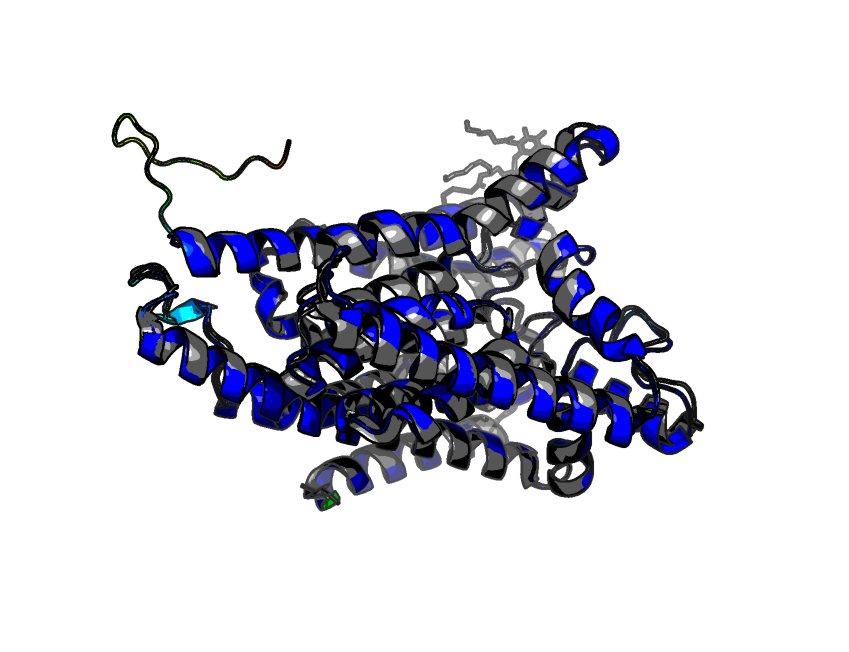
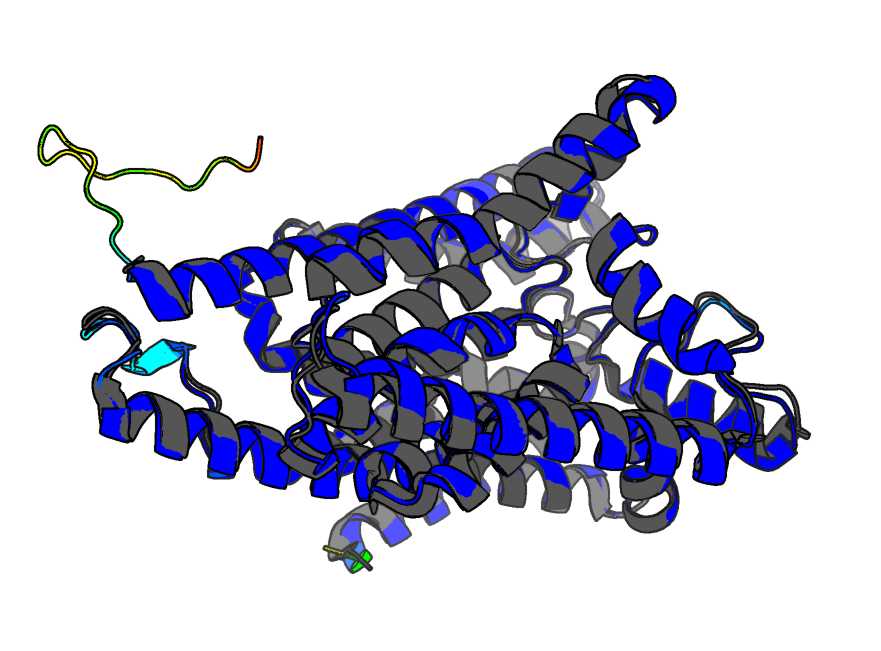
mol*/PyMOL tutorial

Changed region(s): [[0.0306, 0.0922, 0.9187, 0.8909]]

diff --git a/docs/day1/mol_star_tutorial.md b/docs/day1/mol_star_tutorial.md
@@ -102,14 +102,18 @@ fetch 1mbo
 fetch 4hhb
 ```
 3. Since 1MBO is a monomer, we can use the whole object. Hemoglobin (4HHB) is a tetramer (chains A, B, C, and D), so we need to specify just one chain—let's use Chain A. For the alignment of the structures, we use the built-in equivalent to TM-align `super 4hhb and chain A, 1mbo`
-4. Next we hide everything in hemoglobin that is not chain A using `hide everything, 4hhb and not chain A`
+4. Next we hide everything in hemoglobin that is not chain A using `hide everything, 4hhb and not chain A`, also Use the solvent selector to hide water molecules `hide everything, solvent`. Finally, remove SO4 and color O2 by element as follows:
+```python
+color atomic, resn OXY
+hide resn SO4  # remove inorganic # ions/salts (SO4, PO4, CL, NA, etc.)
+```
 5. Finally, we put some colors
 ```python
 color green, 1mbo
-color cyan, 4hhb and chain A
+color cyan, 4hhb # or color cyan, 4hhb and chain A
 ```
-6. Center the alignment with `zoom 1mbo or (4hhb and chain A)`
-7. Optionally, we may render the final picture using ray trace mode as follows
+1. Center the alignment with `zoom 1mbo or (4hhb and chain A)`
+2. Optionally, we may render the final picture using ray trace mode as follows
 ```python
 bg_color white
 set ray_trace_mode, 3
@@ -120,11 +124,13 @@ ray
 
 ## Exercise 2
 
-Upload the best model for the **PIGU protein** from Exercise 1 of the ColabFold tutorial to Mol* and color it by **pLDDT** using `spectrum b, rainbow_rev, minimum=50, maximum=90` (ColabFold and AlphaFold store the predicted local distance difference test (pLDDT) scores directly inside the B-factor column of the resulting .pdb or .cif files). We can give the structure an alias `set_name PIGU_prediction_98843_unrelaxed_rank_001_alphafold2_ptm_model_4_seed_000, PIGU`.
+Upload the best model for the **PIGU protein** from Exercise 1 of the ColabFold tutorial as PIGU object `load data\Exercise_1\PIGU_prediction_98843_unrelaxed_rank_001_alphafold2_ptm_model_4_seed_000.pdb, PIGU` and color it by **pLDDT** using `spectrum b, rainbow_rev, minimum=50, maximum=90` (ColabFold and AlphaFold store the predicted local distance difference test (pLDDT) scores directly inside the B-factor column of the resulting .pdb or .cif files).
+
+We could alos give the structure the PIGU alias `set_name PIGU_prediction_98843_unrelaxed_rank_001_alphafold2_ptm_model_4_seed_000, PIGU` after loading the PDB file.
 
 PIGU protein (UniProt ID: [Q9H490](https://www.uniprot.org/uniprotkb/Q9H490)) is part of the human glycosylphosphatidylinositol (GPI) transamidase complex.
 
-Download from PDB the structure of **GPIT** (PDB ID: `7W72`) and superpose the modeled PIGU protein with PIGU in the complex. Note that "chain A [auth U]" means the PDB calls it Chain A, but the original authors called it Chain U, so we use `super PIGU, 7w72 and chain U`.
+Download from PDB the structure of **GPIT** (PDB ID: `7W72`) and superpose the modeled PIGU protein with PIGU in the complex. Note that "chain A [auth U]" means the PDB calls it Chain A, but the original authors called it Chain U, so we use `super PIGU, 7w72 and chain U`. Sometime it's good to reinitialize the representation to cartoon style as `hide all; show cartoon`.
 
 - Analyze the **TM-score** and **RMSD** scores
 
@@ -144,13 +150,21 @@ Download from PDB the structure of **GPIT** (PDB ID: `7W72`) and superpose the m
 
 The structural alignment reveals that the core 3D folds of the two models are almost identical. The final RMSD is extremely low (0.580 Å) over a very large number of atoms (2699). PyMOL reached this highly confident alignment by performing 5 outlier rejection cycles to exclude flexible or divergent regions (710 atoms). (Note: insert your TM-score analysis here—if the TM-score is > 0.5, it confirms they share the same global fold; if it is > 0.8, it confirms excellent global topology).
 
-- Hide all chains that were not superposed with PIGU
+- Hide all chains that were not superposed with PIGU using `hide everything, 7W72 and not chain U`
 
 ```
 color grey, 7w72
 zoom PIGU
 bg_color white
+
+# 3. Apply cel-shaded cartoon styling
 set ray_trace_mode, 3
+set ray_shadow, 0
+set ray_trace_gain, 0.15
+set specular, 0
+set ambient, 0.7
+set direct, 0.3
+
 ray
 ```
 
